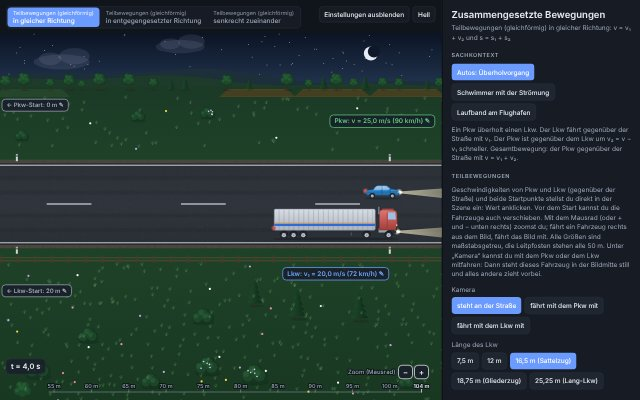
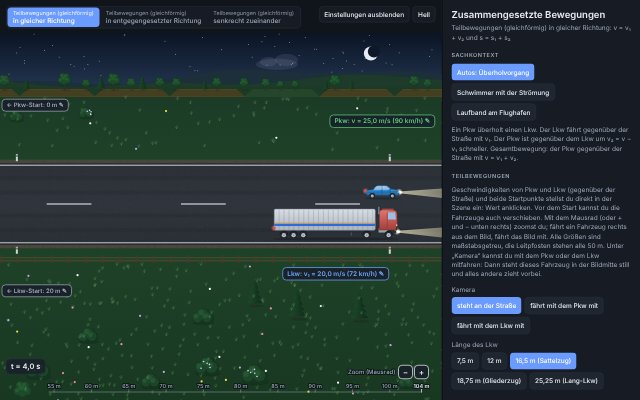
Zusammengesetzte Bewegungen: Landschaft fest an der Welt, Schwimmer v₁, Parameterfelder ausblendbar (#17)
- Keine Parallaxe mehr: Bäume, Felder, Hügel und Wolken bleiben beim Fahren und Zoomen an ihrem Platz
- Schwimmer: Eingabe v₁ gegenüber dem Wasser (bis 2,5 m/s), Strömung bis 5 m/s, Strömung darf schneller sein
- Neue Kraul-Armbewegung mit Zug unter Wasser und Rückholen über Wasser
- Laufband: kein grünes Feld an der Person, v₂ und Bandlänge links am Band
- Schalter „Parameterfelder ausblenden“

Claude-Session: https://claude.ai/code/session_016VMU7o5CWE2HxTsaP7X4fN

Changed region(s): [[0.0, 0.12, 0.5, 0.24], [0.5312, 0.18, 0.6875, 0.24], [0.25, 0.09, 0.3125, 0.12]]

diff --git a/zusammengesetzte-bewegungen/index.html b/zusammengesetzte-bewegungen/index.html
@@ -187,6 +187,7 @@ section{min-width:0}
       <label class="sw"><input type="checkbox" id="tArrows" checked><span class="track"></span><span class="dot" style="background:var(--c-v)"></span>Geschwindigkeitspfeile am Körper</label>
       <label class="sw"><input type="checkbox" id="tTrail" checked><span class="track"></span><span class="dot" style="background:var(--c-s)"></span>Weg-Spur</label>
       <label class="sw"><input type="checkbox" id="tHelp" checked><span class="track"></span><span class="dot" style="background:var(--c-t1)"></span>Teilwege (gestrichelte Hilfslinien)</label>
+      <label class="sw" id="paramRow"><input type="checkbox" id="tParams"><span class="track"></span><span class="dot" style="background:var(--muted)"></span>Parameterfelder ausblenden</label>
       <label class="sw" id="ghostRow"><input type="checkbox" id="tGhost"><span class="track"></span><span class="dot" style="background:var(--muted)"></span>Schatten: nur Teilbewegung 1</label>
     </section>
 
@@ -218,8 +219,8 @@ const BEREICHE = [
         v2:{ name:"Pkw gegenüber dem Lkw", min:1, max:10, step:0.5, def:5 },
         start:{ obj:20, traeger:50 } },
       { id:"schwimmer", name:"Schwimmer mit der Strömung", szene:"fluss1d", frei:"fluss", L:60, tMax:600,
-        intro:"Ein Schwimmer schwimmt in Strömungsrichtung. Eingestellt werden die Geschwindigkeit des Schwimmers v und die der Strömung v₂, beide gegenüber dem Ufer. Gegenüber dem Wasser schwimmt er mit v₁ = v − v₂, also gilt v = v₁ + v₂. Da er vorwärts schwimmt, ist v mindestens so groß wie v₂.",
-        frei0:{ vA:1.5, vT:0.5, D:25 },
+        intro:"Ein Schwimmer schwimmt in Strömungsrichtung. Eingestellt werden seine Schwimmgeschwindigkeit v₁ gegenüber dem Wasser und die Strömung v₂ gegenüber dem Ufer. Gegenüber dem Ufer ist er mit v = v₁ + v₂ unterwegs.",
+        frei0:{ vP:1.0, vT:0.5, D:25 },
         v1:{ name:"Schwimmer gegenüber dem Wasser", min:0.2, max:2, step:0.05, def:1 },
         v2:{ name:"Strömung gegenüber dem Ufer", min:0, max:1.5, step:0.05, def:0.5 } },
       { id:"laufband", name:"Laufband am Flughafen", szene:"band", frei:"band", L:50, tMax:600,
@@ -237,8 +238,8 @@ const BEREICHE = [
         v2:{ name:"Pkw gegenüber dem Lkw (nach hinten)", min:1, max:10, step:0.5, def:4 },
         start:{ obj:75, traeger:35 } },
       { id:"schwimmer", name:"Schwimmer gegen die Strömung", szene:"fluss1d", frei:"fluss", L:60, tMax:600,
-        intro:"Ein Schwimmer schwimmt gegen die Strömung nach rechts, das Wasser fließt nach links. Eingestellt werden v (Schwimmer) und v₂ (Strömung), beide gegenüber dem Ufer. Gegenüber dem Wasser schwimmt er mit v₁ = v + v₂, also gilt v = v₁ − v₂. Ein negatives v heißt: Er treibt zurück.",
-        frei0:{ vA:0.7, vT:0.5, D:25 },
+        intro:"Ein Schwimmer schwimmt gegen die Strömung nach rechts, das Wasser fließt nach links. Eingestellt werden seine Schwimmgeschwindigkeit v₁ gegenüber dem Wasser und die Strömung v₂ gegenüber dem Ufer. Gegenüber dem Ufer gilt v = v₁ − v₂. Ist die Strömung schneller als der Schwimmer, wird v negativ: Er treibt trotz Schwimmen zurück.",
+        frei0:{ vP:1.2, vT:0.5, D:25 },
         v1:{ name:"Schwimmer gegenüber dem Wasser", min:0.2, max:2, step:0.05, def:1.2 },
         v2:{ name:"Strömung gegenüber dem Ufer", min:0, max:1.5, step:0.05, def:0.5 } },
       { id:"laufband", name:"Gegen das Laufband laufen", szene:"band", frei:"band", L:50, tMax:600,
@@ -296,7 +297,7 @@ function kin(){
       s:st.x - F.xP, s1:v1 * t, s2:st.x - F.xP - v1 * t, t, D:F.D, Lb:F.Lb };
   }
   if (k.frei){ // Körper und Träger (Wasser, Band) gegenüber dem Boden vorgegeben; v₁ = Körper gegenüber dem Träger
-    const F = vals(), d2 = b.d[1], v = F.vA, v2 = F.vT, v1 = v - d2 * v2;
+    const F = vals(), d2 = b.d[1], v1 = F.vP, v2 = F.vT, v = v1 + d2 * v2; // Schwimmer: v₁ gegenüber dem Wasser, Strömung v₂ gegenüber dem Ufer
     return { art:"1d", frei:k.frei, v1, v2, d1:1, d2, v, s1:v1 * t, s2:v2 * t, s:v * t, t, D:F.D, Lb:F.Lb };
   }
   const { v1, v2 } = vals();
@@ -572,13 +573,6 @@ function drawSky(ctx, w, R, hzS, off){
     ctx.fillStyle = g; ctx.beginPath(); ctx.arc(sx, sy, 60, 0, 7); ctx.fill();
     ctx.fillStyle = "#fff6c8"; ctx.beginPath(); ctx.arc(sx, sy, 16, 0, 7); ctx.fill();
   }
-  ctx.fillStyle = dk ? "rgba(170,185,210,.12)" : "rgba(255,255,255,.92)";
-  const co = off * 0.05, cw = 380, hh = Math.min(hzS - R.y, 240);
-  for (let i = Math.floor(co / cw) - 1; i < (co + w) / cw + 1; i++){
-    if (hash(i * 1.7) < 0.35) continue;
-    const cx = i * cw - co + hash(i) * 200, cy = R.y + 18 + hash(i * 2.3) * hh * 0.45, sz = 0.7 + hash(i * 5.1) * 0.7;
-    for (const [dx, dy, rx, ry] of [[0, 0, 44, 12], [20, -9, 24, 13], [-18, -5, 18, 10]]){ ctx.beginPath(); ctx.ellipse(cx + dx * sz, cy + dy * sz, rx * sz, ry * sz, 0, 0, 7); ctx.fill(); }
-  }
 }
 /* Landschaft in Bezugskoordinaten (V: sichtbarer Ausschnitt, off: Verschiebung der Kamera) */
 function drawLandscape(ctx, V, R, top, bot, opt = {}){
@@ -589,12 +583,20 @@ function drawLandscape(ctx, V, R, top, bot, opt = {}){
     for (let x = xa; x <= xb + st; x += st){ const u = x + o; ctx.lineTo(x, base - a1 * (1 + Math.sin(u / 170)) - a2 * (1 + Math.sin(u / 61 + 1.3))); }
     ctx.lineTo(xb + st, hz + 30); ctx.closePath(); ctx.fill();
   };
-  hill(off * 0.08, hz, 14, 6, dk ? "#1c2f3a" : "#a9cdb8");
-  hill(off * 0.18, hz + 2, 9, 5, dk ? "#1d3a2b" : "#93c287");
+  // Wolken (fest an der Welt, wie alles andere)
+  ctx.fillStyle = dk ? "rgba(170,185,210,.12)" : "rgba(255,255,255,.92)";
+  const cH = Math.min(200, hz - R.y - 40);
+  if (cH > 10) for (let [i, i1] = span(V, off, 380); i < i1; i++){
+    if (hash(i * 1.7) < 0.35) continue;
+    const cx = i * 380 - off + hash(i) * 200, cy = hz - 40 - hash(i * 2.3) * cH, sz = 0.7 + hash(i * 5.1) * 0.7;
+    for (const [dx, dy, rx, ry] of [[0, 0, 44, 12], [20, -9, 24, 13], [-18, -5, 18, 10]]){ ctx.beginPath(); ctx.ellipse(cx + dx * sz, cy + dy * sz, rx * sz, ry * sz, 0, 0, 7); ctx.fill(); }
+  }
+  hill(off, hz, 14, 6, dk ? "#1c2f3a" : "#a9cdb8");
+  hill(off + 900, hz + 2, 9, 5, dk ? "#1d3a2b" : "#93c287");
   const mg = ctx.createLinearGradient(0, hz, 0, top);
   mg.addColorStop(0, dk ? "#1b3a26" : "#8fc56c"); mg.addColorStop(1, dk ? "#1e4228" : "#a3d27b");
   ctx.fillStyle = mg; ctx.fillRect(xa, hz, W, top - hz + 1);
-  const fo = off * 0.32, fwid = 150;
+  const fo = off, fwid = 150;
   for (let [i, i1] = span(V, fo, fwid); i < i1; i++){
     const r = hash(i * 9.3); if (r < 0.45) continue;
     const x = i * fwid - fo, y = hz + 4, fh = Math.min(16, (top - hz) * 0.22);
@@ -603,13 +605,13 @@ function drawLandscape(ctx, V, R, top, bot, opt = {}){
     if (r > 0.75 && z > 0.3){ ctx.strokeStyle = dk ? "rgba(0,0,0,.25)" : "rgba(160,120,40,.35)"; ctx.lineWidth = 1; ctx.beginPath(); for (let k = 1; k < 4; k++){ const yy = y + fh * k / 4; ctx.moveTo(x + 18 * (1 - k / 4), yy); ctx.lineTo(x + fwid * 0.9 + 18 * k / 4, yy); } ctx.stroke(); }
   }
   if (20 * z > 2){
-    const to = off * 0.45, tc = 30;
+    const to = off, tc = 30;
     for (let [i, i1] = span(V, to, tc); i < i1; i++){
       const r = hash(i * 4.7); if (r < 0.3) continue;
       const x = i * tc - to + hash(i * 1.3) * 16, sz = 0.65 + hash(i * 8.1) * 0.6;
       tree(ctx, x, hz + 6, 26 * sz, r > 0.78, dk, i);
     }
-    const mo = off * 0.7, mc = 170;
+    const mo = off, mc = 170;
     for (let [i, i1] = span(V, mo, mc); i < i1; i++){
       const r = hash(i * 3.9 + 1); if (r < 0.45) continue;
       const x = i * mc - mo + hash(i * 4.4) * 90, y = hz + 30 + hash(i * 6.6) * Math.max(0, top - hz - 70);
@@ -951,7 +953,7 @@ function drawFlussFrei(ctx, w, h){
   const uT = Math.max(Y(wt - bank), R.y + 90), uB = Math.min(Y(wb + bank), h - 100);
   if (S.show.arrows) arrowPair(ctx, w, cx, Math.max(sy - 0.6 * f - 10, R.y + 80), m.v1, m.v, "Schwimmer gegenüber dem Wasser", kk);
   if (S.show.arrows){ const ay = Math.min(wbS, h - 100) - 30; arrow(ctx, cx, ay, cx + m.d2 * m.v2 * kk, ay, C.t2, 3); }
-  bubble(ctx, "Schwimmer: v = " + fv(m.v) + " ✎", cx, uT - 26, C.v, "vA", "center", 13);
+  bubble(ctx, "Schwimmer gegenüber dem Wasser: v₁ = " + fv(m.v1) + " ✎", cx, uT - 26, C.t1, "vP", "center", 13);
   bubble(ctx, "Strömung: v₂ = " + fv(m.v2) + " ✎", cx, uB + 24, C.t2, "vT", "center", 13);
   timeBadge(ctx, w, h, R);
 }
@@ -983,23 +985,34 @@ function drawSwimmerTop(ctx, x, y, f, dir, ph, kick = true){
     ctx.fillStyle = lg; ctx.fill(); ctx.strokeStyle = skinD; ctx.lineWidth = lw(0.01); ctx.stroke();
     if (kick && kk > 0.3){ ctx.fillStyle = foam; for (let i = 0; i < 3; i++){ ctx.beginPath(); ctx.arc(-1.98 - i * 0.07, s * (0.07 + (hash(i + s) - 0.5) * 0.08), 0.035 - i * 0.008, 0, 7); ctx.fill(); } }
   }
-  // Arme: Zugphase unter Wasser, Rückholphase über Wasser mit hohem Ellbogen
+  // Arme (Kraulzug von oben): Gleiten vorn, Zug unter dem Körper bis zur Hüfte, Rückholen über Wasser mit hohem Ellbogen.
+  // Schlüsselstellungen des Handgelenks [Phase, x relativ zur Schulter, Abstand zur Mitte, Tiefe 0 = über Wasser … 1 = tief]
+  const KEY = [[0, 0.6, 0.13, 0.25], [0.15, 0.55, 0.16, 0.45], [0.3, 0.2, 0.1, 0.8], [0.45, -0.3, 0.1, 0.8], [0.58, -0.6, 0.2, 0.45],
+               [0.66, -0.58, 0.28, 0], [0.78, -0.3, 0.36, 0], [0.9, 0.25, 0.27, 0], [1, 0.6, 0.13, 0.25]];
+  const cr = (p0, p1, p2, p3, u) => 0.5 * (2 * p1 + (p2 - p0) * u + (2 * p0 - 5 * p1 + 4 * p2 - p3) * u * u + (3 * p1 - p0 - 3 * p2 + p3) * u * u * u);
+  const wrist = q => {
+    let i = 0; while (i < KEY.length - 2 && q > KEY[i + 1][0]) i++;
+    const u = (q - KEY[i][0]) / (KEY[i + 1][0] - KEY[i][0]), n = KEY.length - 1;
+    const P = j => KEY[(j + n) % n], p0 = P(i - 1), p1 = KEY[i], p2 = KEY[i + 1], p3 = P(i + 2);
+    return [1, 2, 3].map(c => cr(p0[c], p1[c], p2[c], p3[c], u));
+  };
+  const wc = dk ? [18, 58, 88] : [63, 151, 207], sc0 = [231, 173, 130], sc1 = [201, 141, 99];
+  const mix = (c, t) => "rgb(" + c.map((v, i) => Math.round(v + (wc[i] - v) * t)).join(",") + ")";
   const arm = (side, p, under) => {
-    const q = ((p % 1) + 1) % 1, Sx = -0.3, Sy = side * 0.2;
-    let wx, wy, alpha = 1;
-    if (q < 0.5){ const u = q / 0.5; wx = Sx + 0.55 - 1.05 * u; wy = side * (0.12 + 0.12 * Math.sin(u * Math.PI)); alpha = 0.6; }
-    else { const u = (q - 0.5) / 0.5; wx = Sx - 0.5 + 1.05 * u; wy = side * (0.22 + 0.16 * Math.sin(u * Math.PI)); }
-    if ((alpha < 1) !== under) return;
-    const a = 0.31, b = 0.27, dx = wx - Sx, dy = wy - Sy, d = Math.min(Math.hypot(dx, dy), a + b - 0.002);
-    const ang = Math.atan2(dy, dx), bend = Math.acos((a * a + d * d - b * b) / (2 * a * d));
-    const ex = Sx + a * Math.cos(ang + side * bend), ey = Sy + a * Math.sin(ang + side * bend);
-    const hx = wx + 0.08 * Math.cos(Math.atan2(wy - ey, wx - ex)), hy = wy + 0.08 * Math.sin(Math.atan2(wy - ey, wx - ex));
-    ctx.globalAlpha = alpha;
-    ctx.strokeStyle = skin; ctx.lineWidth = lw(0.095); ctx.beginPath(); ctx.moveTo(Sx, Sy); ctx.lineTo(ex, ey); ctx.stroke();
-    ctx.lineWidth = lw(0.075); ctx.beginPath(); ctx.moveTo(ex, ey); ctx.lineTo(wx, wy); ctx.stroke();
-    ctx.fillStyle = skin; ctx.strokeStyle = skinD; ctx.lineWidth = lw(0.01); ctx.beginPath(); ctx.ellipse(hx, hy, 0.09, 0.045, Math.atan2(wy - ey, wx - ex), 0, 7); ctx.fill(); ctx.stroke();
-    ctx.globalAlpha = 1;
-    if (!under && q > 0.92){ ctx.fillStyle = foam; ctx.beginPath(); ctx.arc(hx + 0.08, hy, 0.09, 0, 7); ctx.fill(); }
+    const q = ((p % 1) + 1) % 1, Sx = -0.3, Sy = side * 0.2, [dxw, yw, depth] = wrist(q);
+    if ((depth > 0.05) !== under) return;
+    // liegt die Hand nah an der Schulter, zeigt der Arm nach oben/unten: von oben gesehen verkürzt statt seitlich abgeknickt
+    const wx = Sx + dxw, wy = side * yw, dx = wx - Sx, dy = wy - Sy, d0 = Math.hypot(dx, dy), kz = Math.max(0.3, Math.min(1, d0 / (0.85 * 0.6)));
+    const a = 0.31 * kz, b = 0.29 * kz, d = Math.max(0.02, Math.min(d0, a + b - 0.002));
+    const ang = Math.atan2(dy, dx), bend = Math.acos(Math.max(-1, Math.min(1, (a * a + d * d - b * b) / (2 * a * d))));
+    let e1 = [Sx + a * Math.cos(ang + bend), Sy + a * Math.sin(ang + bend)], e2 = [Sx + a * Math.cos(ang - bend), Sy + a * Math.sin(ang - bend)];
+    const [ex, ey] = side * e1[1] > side * e2[1] ? e1 : e2;   // Ellbogen zeigt nach außen
+    const fa = Math.atan2(wy - ey, wx - ex), hx = wx + 0.08 * Math.cos(fa), hy = wy + 0.08 * Math.sin(fa);
+    const t = depth * 0.4, cS = mix(sc0, t), cD = mix(sc1, t);
+    ctx.strokeStyle = cS; ctx.lineWidth = lw(0.1); ctx.beginPath(); ctx.moveTo(Sx, Sy); ctx.lineTo(ex, ey); ctx.stroke();
+    ctx.lineWidth = lw(0.08); ctx.beginPath(); ctx.moveTo(ex, ey); ctx.lineTo(wx, wy); ctx.stroke();
+    ctx.fillStyle = cS; ctx.strokeStyle = cD; ctx.lineWidth = lw(0.01); ctx.beginPath(); ctx.ellipse(hx, hy, 0.09, 0.045, fa, 0, 7); ctx.fill(); ctx.stroke();
+    if (q > 0.93 || (q > 0.6 && q < 0.68)){ ctx.fillStyle = foam; for (let k = 0; k < 3; k++){ ctx.beginPath(); ctx.arc(hx + (k - 1) * 0.07, hy + side * (k % 2) * 0.05, 0.05 - k * 0.01, 0, 7); ctx.fill(); } }
   };
   const p1 = ph, p2 = ph + 0.5;
   arm(-1, p1, true); arm(1, p2, true);
@@ -1137,12 +1150,10 @@ function drawBandFrei(ctx, w, h){
   const kk = 70 / 1.6, cx = pO, top = Math.max(fyS - 1.85 * f, R.y + 120);
   if (S.show.arrows) arrowPair(ctx, w, cx, top - 16, m.v1, m.v, "Person gegenüber " + (m.on ? "dem Band" : "dem Boden"), kk);
   bubble(ctx, "Person geht mit v₁ = " + fv(m.v1) + " ✎", cx, top - 100, C.t1, "vP", "center", 13);
-  bubble(ctx, "gegenüber dem Boden: v = " + fv(m.v) + (m.on ? " (auf dem Band)" : " (neben dem Band)"), cx, top - 68, C.v, null, "center", 13);
-  const by = Math.min(fyS + skS + 46, h - 140);
-  if (S.show.arrows){ arrow(ctx, cx - m.d2 * m.v2 * kk / 2, by - 22, cx + m.d2 * m.v2 * kk / 2, by - 22, C.t2, 3); }
-  bubble(ctx, "Laufband: v₂ = " + fv(m.v2) + " ✎", cx, by, C.t2, "vT", "center", 13);
-  const xbS = X(m.Lb);
-  bubble(ctx, (xbS > w - 20 ? "→ " : "") + "Bandlänge: " + fmt(m.Lb, 0) + " m ✎", Math.min(Math.max(xbS, 80), w - 60), by + 34, C.muted, "Lb", xbS > w - 20 ? "right" : "center", 12);
+  const by = Math.min(fyS + skS + 46, h - 140), xaS = X(0), lx = Math.max(xaS, 6), arr = xaS < 6 ? "← " : "";
+  if (S.show.arrows){ const ax = lx + 50; arrow(ctx, ax - m.d2 * m.v2 * kk / 2, by - 22, ax + m.d2 * m.v2 * kk / 2, by - 22, C.t2, 3); }
+  bubble(ctx, arr + "Laufband: v₂ = " + fv(m.v2) + " ✎", lx, by, C.t2, "vT", "left", 13);
+  bubble(ctx, arr + "Bandlänge: " + fmt(m.Lb, 0) + " m ✎", lx, by + 34, C.muted, "Lb", "left", 12);
   bubble(ctx, (pS < 60 ? "← " : "") + "Start: " + fmt(m.x0, 0) + " m ✎", Math.max(Math.min(pS, w - 60), 60), by + 68, C.muted, "xP", "center", 12);
   timeBadge(ctx, w, h, R);
 }
@@ -1192,6 +1203,7 @@ function drawPersonNice(ctx, x, y, f, dir, ph){
 
 /* anklickbares Wertefeld in der Szene */
 function bubble(ctx, s, x, y, col, act, align = "center", size = 13){
+  if (S.show.hideParams && act && !act.startsWith("zoom")) return; // Schalter „Parameterfelder ausblenden“
   ctx.save(); ctx.font = "600 " + size + "px " + getComputedStyle(document.body).fontFamily;
   const tw = ctx.measureText(s).width, bw = tw + 18, bh = size + 12, cw = ctx.canvas.clientWidth;
   let bx = align === "right" ? x - bw : align === "left" ? x : x - bw / 2;
@@ -1456,7 +1468,7 @@ function timeBadge(ctx, w, h, R){
 /* ============================================================
    Oberfläche
    ============================================================ */
-S.show = { arrows:false, trail:false, help:false, ghost:false };
+S.show = { arrows:false, trail:false, help:false, ghost:false, hideParams:false };
 
 function buildBereiche(){
   const box = $("bereiche"); box.innerHTML = "";
@@ -1490,6 +1502,7 @@ function applyKontext(){
     $("l" + n).innerHTML = `<b>v<sub>${n}</sub></b>: ${c.name}`;
   }
   $("ghostRow").hidden = k.szene === "strasse" || k.szene === "kran";
+  $("paramRow").hidden = !k.frei;
   $("sliders").hidden = !!k.frei; $("freiNote").hidden = !k.frei; $("lkwBox").hidden = k.frei !== "strasse";
   $("freiNote").textContent = FREI_NOTE[k.frei] || "";
   $("ghostRow").hidden = $("ghostRow").hidden || !!k.frei;
@@ -1501,7 +1514,7 @@ function applyKontext(){
 }
 const FREI_NOTE = {
   strasse:"Geschwindigkeiten von Pkw und Lkw (gegenüber der Straße) und beide Startpunkte stellst du direkt in der Szene ein: Wert anklicken. Vor dem Start kannst du die Fahrzeuge auch verschieben. Mit dem Mausrad (oder + und − unten rechts) zoomst du; fährt ein Fahrzeug rechts aus dem Bild, fährt das Bild mit. Alle Größen sind maßstabsgetreu, die Leitpfosten stehen alle 50 m. Unter „Kamera“ kannst du mit dem Pkw oder dem Lkw mitfahren: Dann steht dieses Fahrzeug in der Bildmitte still und alles andere zieht vorbei.",
-  fluss:"Die Geschwindigkeiten von Schwimmer und Strömung (beide gegenüber dem Ufer) stellst du direkt in der Szene ein: Wert anklicken. Mit dem Mausrad (oder + und −) zoomst du; das Bild fährt mit dem Schwimmer mit. Der Schwimmer ist maßstabsgetreu.",
+  fluss:"Die Schwimmgeschwindigkeit v₁ (gegenüber dem Wasser, bis 2,5 m/s) und die Strömung v₂ (gegenüber dem Ufer, bis 5 m/s) stellst du direkt in der Szene ein: Wert anklicken. Mit dem Mausrad (oder + und −) zoomst du; das Bild fährt mit dem Schwimmer mit. Der Schwimmer ist maßstabsgetreu.",
   band:"Gehgeschwindigkeit v₁ der Person, Geschwindigkeit v₂ des Laufbands (gegenüber dem Boden), Bandlänge und Startpunkt stellst du direkt in der Szene ein: Wert anklicken. Die Person kannst du vor dem Start auch verschieben, z. B. vor das Band. Mit dem Mausrad (oder + und −) zoomst du; das Bild fährt mit der Person mit. Alles ist maßstabsgetreu, das Geländer ist 1 m hoch."
 };
 function markLkw(){
@@ -1539,7 +1552,7 @@ document.querySelectorAll("#speeds .btn").forEach(bt => bt.addEventListener("cli
   S.speed = parseFloat(bt.dataset.f);
   document.querySelectorAll("#speeds .btn").forEach(x => x.setAttribute("aria-pressed", String(x === bt)));
 }));
-[["tArrows", "arrows"], ["tTrail", "trail"], ["tHelp", "help"], ["tGhost", "ghost"]].forEach(([id, p]) => {
+[["tArrows", "arrows"], ["tTrail", "trail"], ["tHelp", "help"], ["tGhost", "ghost"], ["tParams", "hideParams"]].forEach(([id, p]) => {
   $(id).checked = S.show[p];
   $(id).addEventListener("change", e => { S.show[p] = e.target.checked; render(); });
 });
@@ -1574,26 +1587,26 @@ function render(){
 S.hits = [];
 const EDIT_LAB = {
   strasse:{ vA:"Pkw gegenüber der Straße: v =", vL:"Lkw gegenüber der Straße: v₁ =", xA:"Pkw startet bei", xL:"Lkw startet bei" },
-  fluss:{ vA:"Schwimmer gegenüber dem Ufer: v =", vT:"Strömung gegenüber dem Ufer: v₂ =" },
+  fluss:{ vP:"Schwimmer gegenüber dem Wasser: v₁ =", vT:"Strömung gegenüber dem Ufer: v₂ =" },
   band:{ vP:"Person geht (gegenüber Boden bzw. Band) mit v₁ =", vT:"Laufband gegenüber dem Boden: v₂ =", Lb:"Länge des Laufbands", xP:"Person startet bei (Bandanfang = 0 m)" }
 };
 const gleich = () => bereich().d[1] > 0;
 const EDIT_RANGE = {
   strasse:{ vA:[0, 80], vL:[0, 80] },
   // Der Schwimmer schwimmt gegenüber dem Wasser immer vorwärts (v₁ ≥ 0)
-  fluss:{ vA:F => gleich() ? [F.vT, 3] : [-F.vT, 3], vT:F => gleich() ? [0, Math.min(3, F.vA)] : [Math.max(0, -F.vA), 3] },
+  fluss:{ vP:[0, 2.5], vT:[0, 5] },
   band:{ vP:[0.1, 4], vT:[0, 3], xP:F => [-100, F.Lb - 1], Lb:F => [Math.max(2, F.xP + 1), 500] }
 };
 const rangeOf = k => { const r = (EDIT_RANGE[kontext().frei] || {})[k]; return typeof r === "function" ? r(vals()) : r; };
 const EDIT = {};
-for (const [k, speed, lo, hi, reset] of [["vA", true, -80, 80], ["vL", true, 0, 80], ["vT", true, 0, 5], ["vP", true, 0.1, 5], ["xA", false, -5000, 50000, true], ["xL", false, -5000, 50000, true], ["xP", false, -100, 500, true], ["Lb", false, 2, 500, true]]){
+for (const [k, speed, lo, hi, reset] of [["vA", true, -80, 80], ["vL", true, 0, 80], ["vT", true, 0, 5], ["vP", true, 0, 5], ["xA", false, -5000, 50000, true], ["xL", false, -5000, 50000, true], ["xP", false, -100, 500, true], ["Lb", false, 2, 500, true]]){
   EDIT[k] = { speed, get:F => F[k], set:(F, x) => { F[k] = x; if (reset) S.t = 0; },
     get lab(){ return (EDIT_LAB[kontext().frei] || {})[k] || k; },
     get hint(){
       const r = rangeOf(k), u = speed ? (kontext().kmh ? "m/s (oder z. B. 90 km/h)" : "m/s (oder km/h)") : "m";
       if (!r || kontext().frei === "strasse") return u;
-      const d = speed ? 2 : 0, extra = kontext().frei === "fluss" ? (k === "vA" ? (gleich() ? ", mindestens v₂" : ", mindestens −v₂") : (gleich() ? ", höchstens v" : "")) : "";
-      return u + " · von " + fmt(r[0], d) + " bis " + fmt(r[1], d) + extra;
+      const d = speed ? 2 : 0;
+      return u + " · von " + fmt(r[0], d) + " bis " + fmt(r[1], d);
     },
     get min(){ const r = rangeOf(k); return r ? r[0] : lo; },
     get max(){ const r = rangeOf(k); return r ? r[1] : hi; } };
